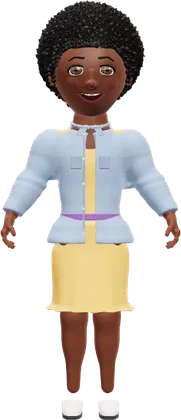
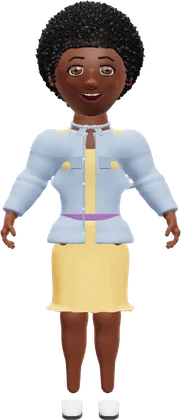
Fix: remove the loose cuff rings by the wrists
Hoodies / sweatshirts had separate rib-cuff rings that were still placed
for the old straight-down arm position, so after the arms moved to a
relaxed A-pose they floated beside the wrists. Sleeves now end cleanly.
Starter / welcome pictures re-rendered; sculpt v54, thumbnails v30.

Claude-Session: https://claude.ai/code/session_011n7UBMF7siA6WHFHfiWuWV

Changed region(s): [[0.6077, 0.3714, 0.7459, 0.4643], [0.2762, 0.3714, 0.4144, 0.4643]]

diff --git a/src/features/avatar/sculpt3d/garments.ts b/src/features/avatar/sculpt3d/garments.ts
@@ -186,7 +186,7 @@ function buildTop(J: Joints, cut: string, layer: 0 | 1, under?: string): Garment
       // looser sleeves open up toward the cuff on boxy cuts
       const elbowFold = (_x: number, y: number) => -0.003 * Math.sin(y * 95) * Math.exp(-(((y - 1.33) / 0.05) ** 2));
       parts.push({ prims, clips: [plane([0, end, 0], [0, -1, 0], 0.008)], kAt: (_x, y) => armBlend(y), disp: quilt ?? fur ?? elbowFold });
-      if (sp.rib && sp.sleeve === 'long') trims.push({ geo: meshTrim(band([side * (J.sx + 0.008), end + 0.02, -0.006], J.r.wrist + sEase + 0.006, J.r.wrist + sEase + 0.006, 0.035, 0.006, bones[1])), tone: sp.rib });
+      // (no separate cuff rings: sleeves end cleanly at the wrist)
     }
   }
 

diff --git a/src/features/avatar/editor/thumbs.tsx b/src/features/avatar/editor/thumbs.tsx
@@ -55,7 +55,7 @@ const cache = new Map<string, string>();
  * opens instantly on later visits. Bump the version whenever the renderer
  * changes how variants look.
  */
-const STORE = 'snv-thumbs-v29';
+const STORE = 'snv-thumbs-v30';
 const storeKey = (key: string) => `/__thumb/${encodeURIComponent(key)}`;
 async function fromStore(key: string): Promise<string | null> {
   try {

diff --git a/src/features/avatar/sculpt3d/jobs.ts b/src/features/avatar/sculpt3d/jobs.ts
@@ -22,7 +22,7 @@ export type Job =
   | { k: 'head'; h: HeadShape; nose: NoseP | null; ears: EarP };
 
 /** Bump when any sculpt builder changes its output (invalidates the on-device cache). */
-export const SCULPT_VERSION = 53;
+export const SCULPT_VERSION = 54;
 
 const r3 = (n: number) => Math.round(n * 1000) / 1000;
 export function jobKey(j: Job): string {
